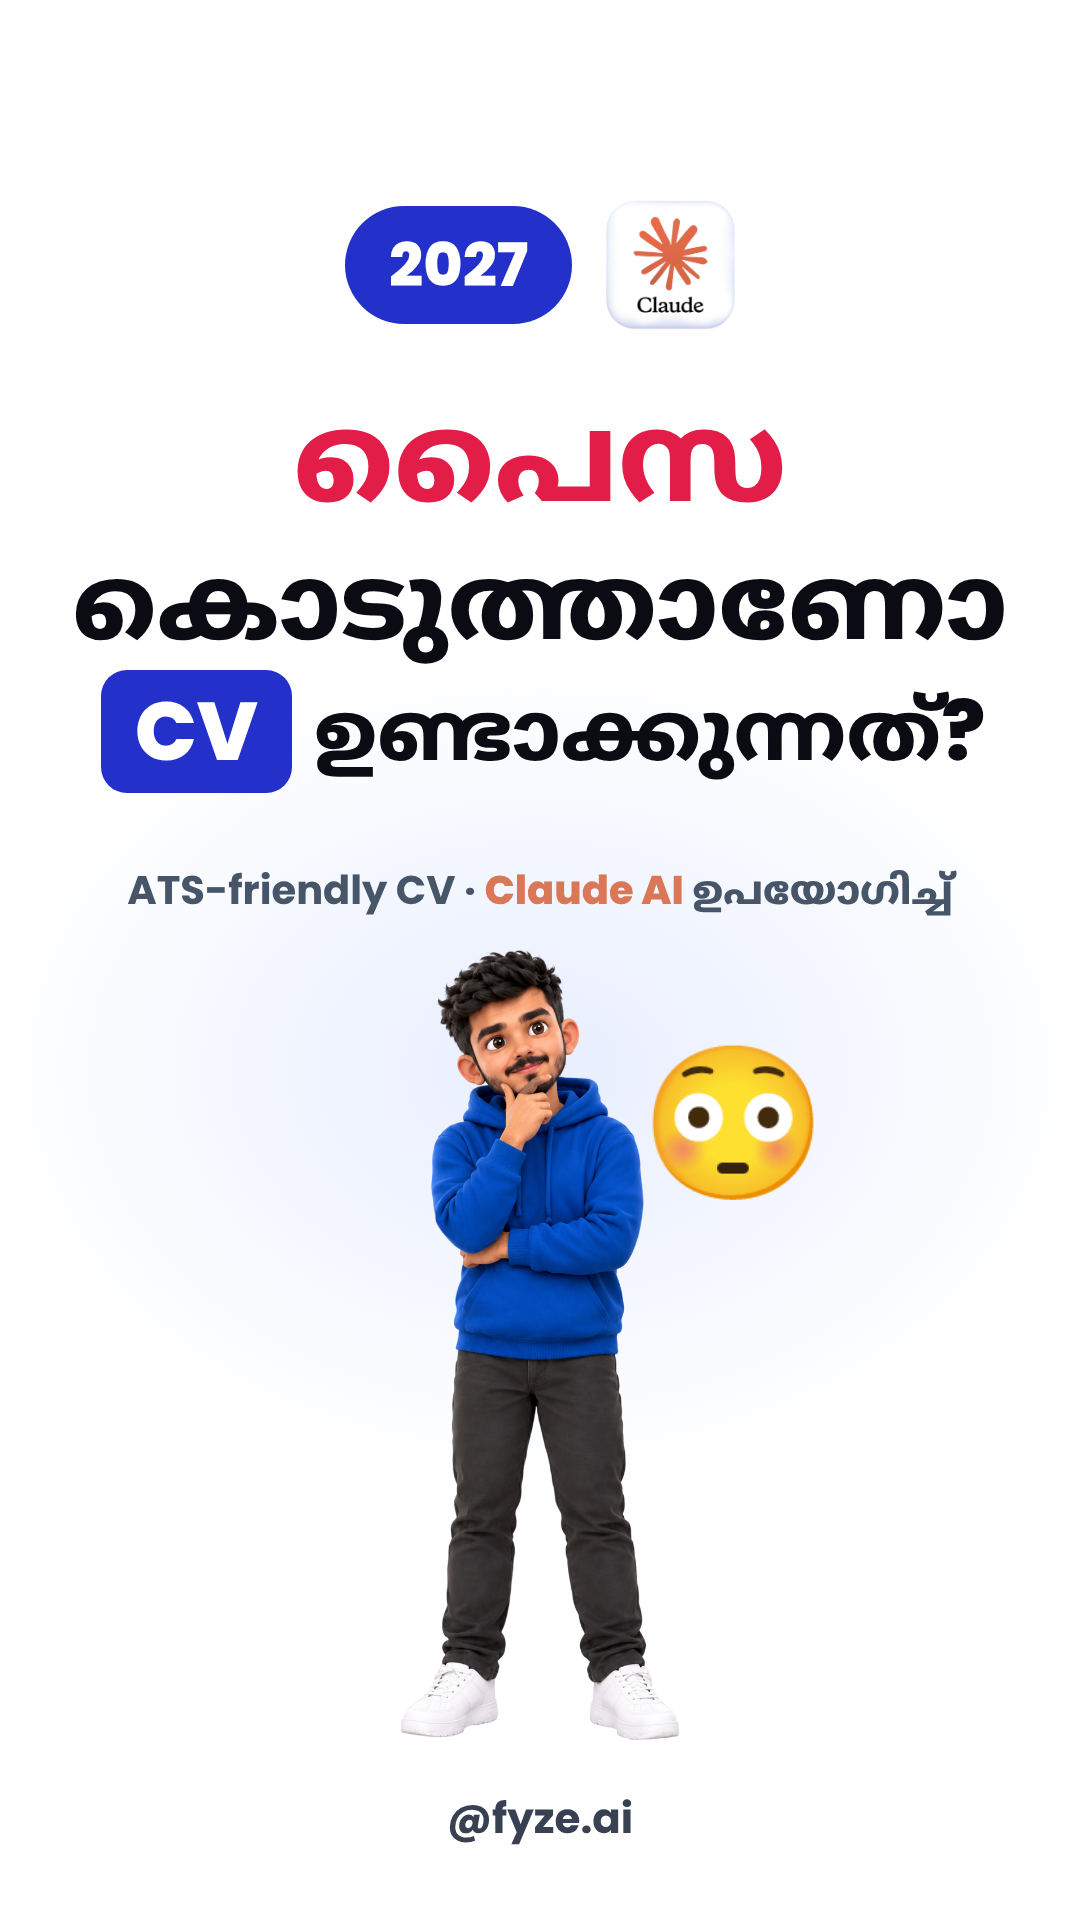
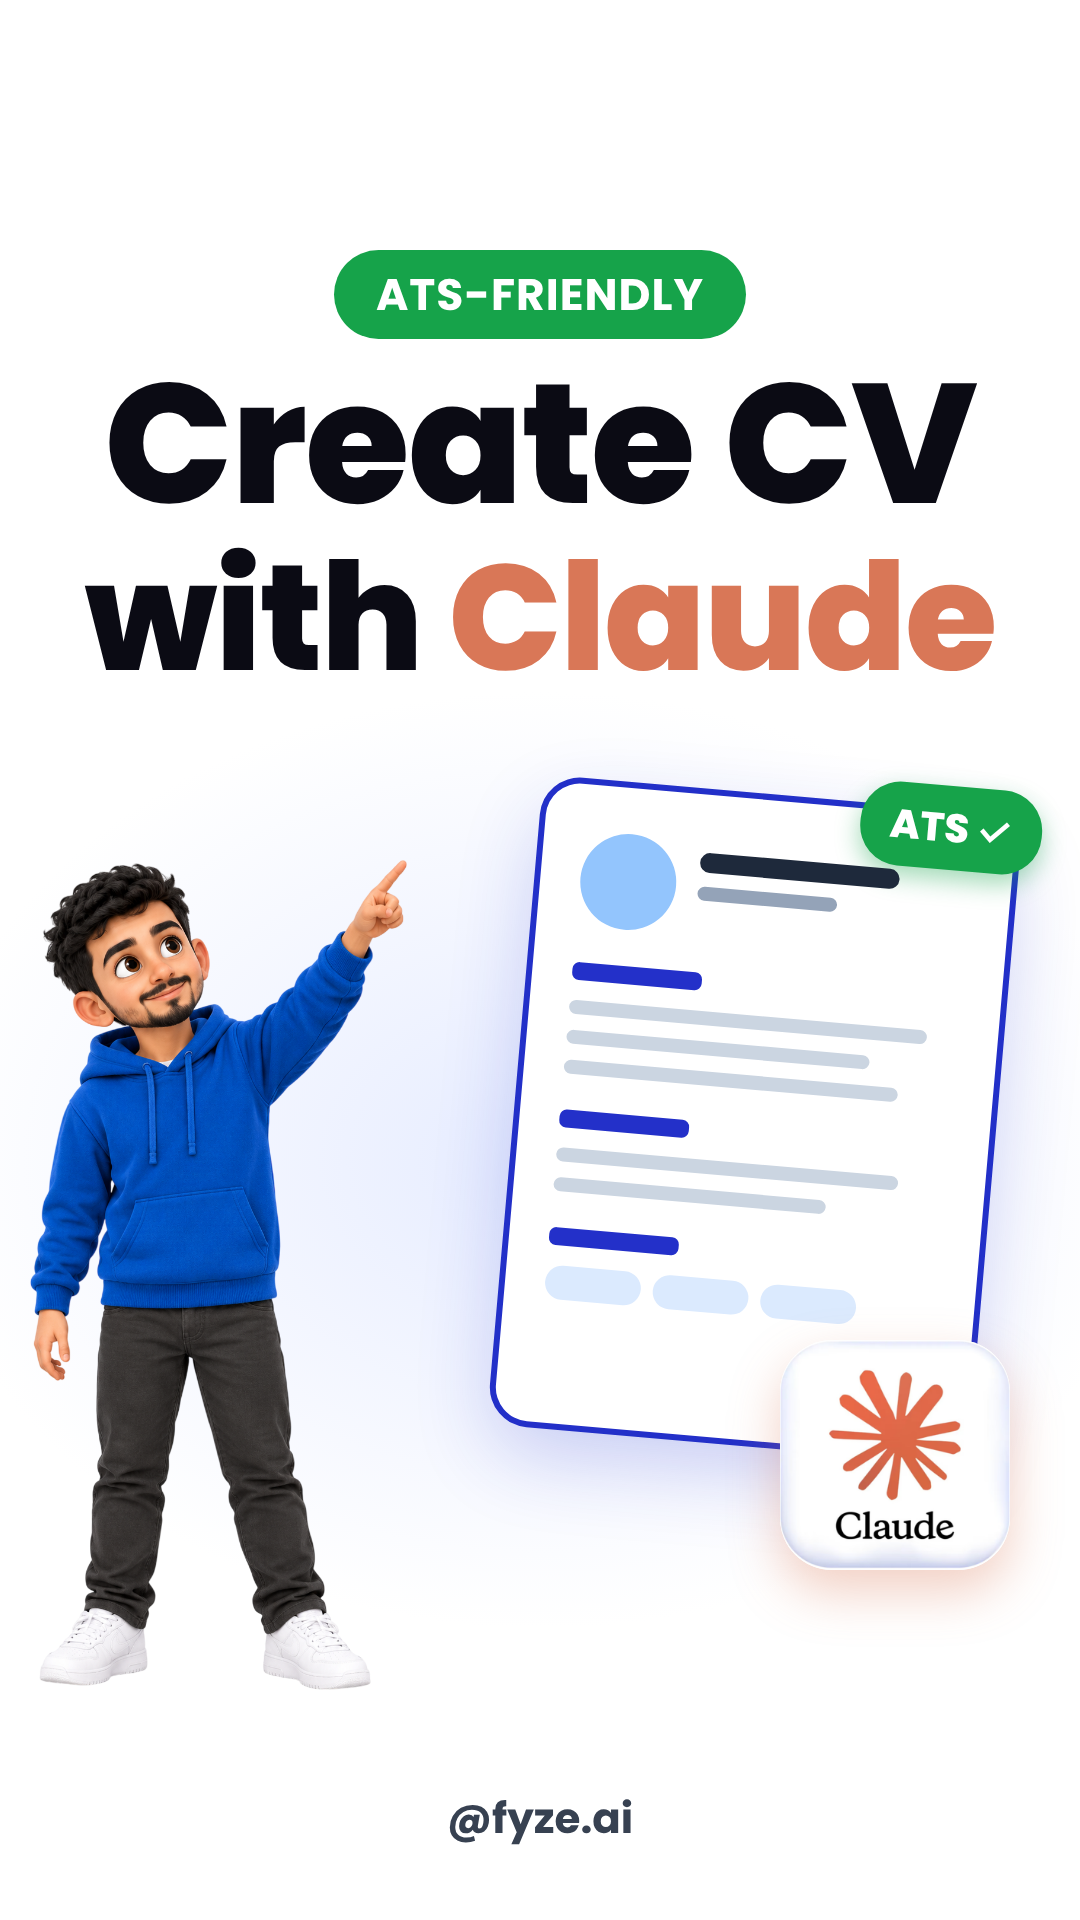
Reel 11 cover: English headline, character + Claude + CV
Claude-Session: https://claude.ai/code/session_01TK32B9ug1t53k9hdysVTQa

Changed region(s): [[0.0306, 0.0938, 0.9778, 0.9062], [0.8861, 0.5938, 0.9167, 0.7188], [0.9167, 0.7188, 0.9472, 0.8125]]

diff --git a/reel11/cover/cover.html b/reel11/cover/cover.html
@@ -1,27 +1,39 @@
-<!doctype html><html lang="ml"><head><meta charset="UTF-8"><style>
-@font-face{font-family:"NotoMal";font-weight:800;src:url("assets/fonts/mal800.woff2") format("woff2")}
+<!doctype html><html lang="en"><head><meta charset="UTF-8"><style>
 @font-face{font-family:"PopFz";font-weight:800;src:url("assets/fonts/pop800.woff2") format("woff2")}
 @font-face{font-family:"PopFz";font-weight:700;src:url("assets/fonts/pop700.woff2") format("woff2")}
 *{margin:0;box-sizing:border-box}
-body{width:1080px;height:1920px;background:#fff;font-family:"PopFz","NotoMal",sans-serif;position:relative;overflow:hidden}
-.glow{position:absolute;left:-200px;top:520px;width:1480px;height:1100px;background:radial-gradient(closest-side,#e8eeff,#fff 75%)}
-.top{position:absolute;left:0;top:200px;width:1080px;display:flex;justify-content:center;gap:34px;align-items:center}
-.top img{height:130px;border-radius:30px}
-.pill{background:#2330c9;color:#fff;font-weight:800;font-size:60px;padding:14px 44px;border-radius:60px}
-.title{position:absolute;left:60px;right:60px;top:380px;text-align:center;font-weight:800;font-size:104px;line-height:1.3;color:#0b0b14}
-.title .cv{display:inline-block;background:#2330c9;color:#fff;padding:0 34px;border-radius:26px;margin:0 6px}
-.title .red{color:#e11d48}
-.sub{position:absolute;left:0;top:860px;width:1080px;text-align:center;font-weight:700;font-size:40px;color:#475569}
-.sub b{color:#d97757}
-.char{position:absolute;left:50%;transform:translateX(-50%);top:950px;height:790px}
-.emoji{position:absolute;left:640px;top:1010px;font-size:150px}
+body{width:1080px;height:1920px;background:#fff;font-family:"PopFz",sans-serif;position:relative;overflow:hidden}
+.glow{position:absolute;left:-250px;top:560px;width:1580px;height:1200px;background:radial-gradient(closest-side,#e6ecff,#fff 78%)}
+.pill{position:absolute;left:0;top:250px;width:1080px;display:flex;justify-content:center}
+.pill span{background:#16a34a;color:#fff;font-weight:700;font-size:44px;padding:12px 42px;border-radius:60px;letter-spacing:1px}
+.t1,.t2{position:absolute;left:0;width:1080px;text-align:center;font-weight:800;letter-spacing:-2px}
+.t1{top:350px;font-size:170px;color:#0b0b14;line-height:1.1}
+.t2{top:535px;font-size:150px;line-height:1.1;color:#0b0b14}
+.t2 b{color:#d97757}
+.cv{position:absolute;left:520px;top:800px;width:470px;height:640px;background:#fff;border-radius:34px;box-shadow:0 30px 80px rgba(35,48,201,.22),0 0 0 6px #2330c9;transform:rotate(5deg);padding:46px 40px}
+.av{width:96px;height:96px;border-radius:50%;background:#93c5fd}
+.nm{position:absolute;left:158px;top:58px}
+.nm i{display:block;height:20px;border-radius:10px;background:#1e293b;width:200px;margin-bottom:14px}
+.nm i+i{height:14px;width:140px;background:#94a3b8}
+.sec{margin-top:36px}
+.sec i{display:block;height:14px;border-radius:7px;background:#cbd5e1;margin-bottom:16px}
+.sec .h{background:#2330c9;width:130px;height:18px;margin-bottom:20px}
+.chips{display:flex;gap:12px;margin-top:10px;flex-wrap:wrap}
+.chips u{display:block;height:34px;width:96px;border-radius:17px;background:#dbeafe}
+.ats{position:absolute;right:-26px;top:-30px;background:#16a34a;color:#fff;font-weight:800;font-size:40px;padding:12px 30px;border-radius:40px;box-shadow:0 10px 24px rgba(22,163,74,.4)}
+.claude{position:absolute;left:780px;top:1340px;width:230px;height:230px;border-radius:52px;box-shadow:0 22px 50px rgba(217,119,87,.35);background:#fff}
+.char{position:absolute;left:30px;top:860px;height:830px}
 .wm{position:absolute;left:0;bottom:70px;width:1080px;text-align:center;font-weight:700;font-size:42px;color:#374151}
 </style></head><body>
 <div class="glow"></div>
-<div class="top"><div class="pill">2027</div><img src="assets/claude.png" alt="Claude"></div>
-<div class="title"><div style="font-size:124px;line-height:1.25"><span class="red">പൈസ</span></div><div>കൊടുത്താണോ</div><div style="font-size:82px;line-height:1.5"><span class="cv">CV</span> ഉണ്ടാക്കുന്നത്?</div></div>
-<div class="sub">ATS-friendly CV · <b>Claude AI</b> ഉപയോഗിച്ച്</div>
-<img class="char" src="assets/pose_think.png" alt="">
-<div class="emoji">😳</div>
+<div class="pill"><span>ATS-FRIENDLY</span></div>
+<div class="t1">Create CV</div>
+<div class="t2">with <b>Claude</b></div>
+<div class="cv"><div class="ats">ATS ✓</div><div class="av"></div><div class="nm"><i></i><i></i></div>
+<div class="sec"><i class="h"></i><i style="width:92%"></i><i style="width:78%"></i><i style="width:86%"></i></div>
+<div class="sec"><i class="h"></i><i style="width:88%"></i><i style="width:70%"></i></div>
+<div class="sec"><i class="h"></i><div class="chips"><u></u><u></u><u></u></div></div></div>
+<img class="claude" src="assets/claude.png" alt="Claude">
+<img class="char" src="assets/pose_pointR.png" alt="">
 <div class="wm">@fyze.ai</div>
 </body></html>
